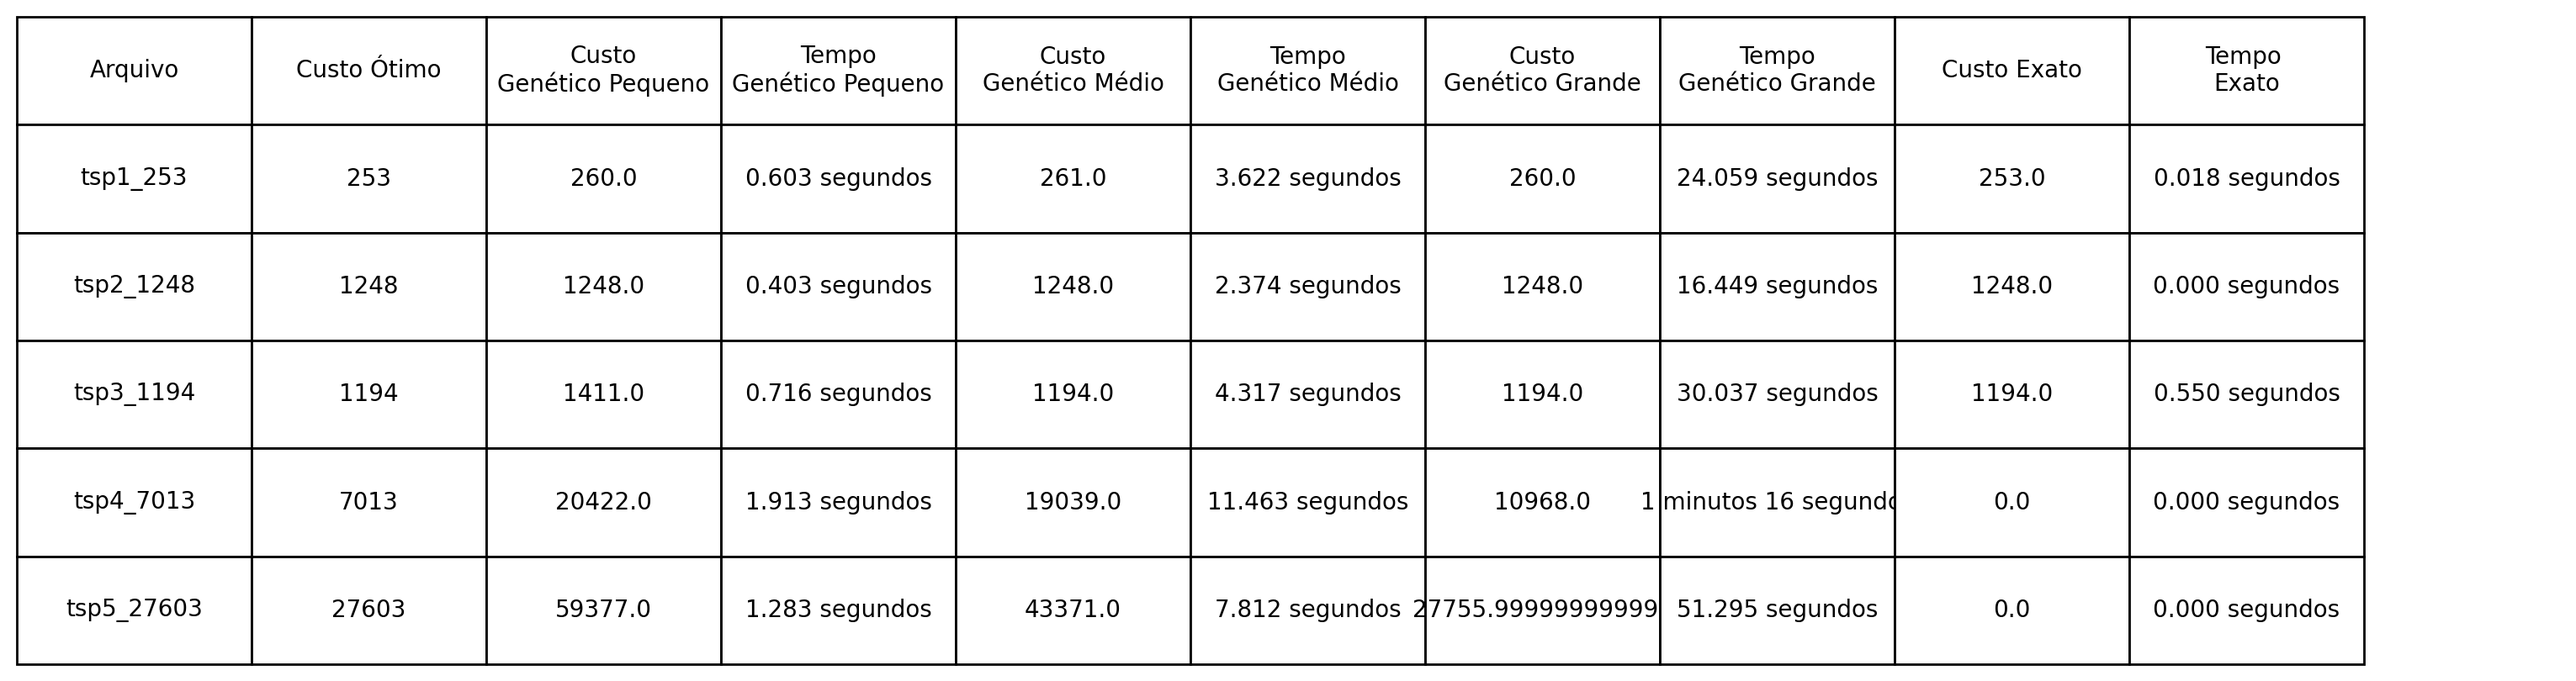
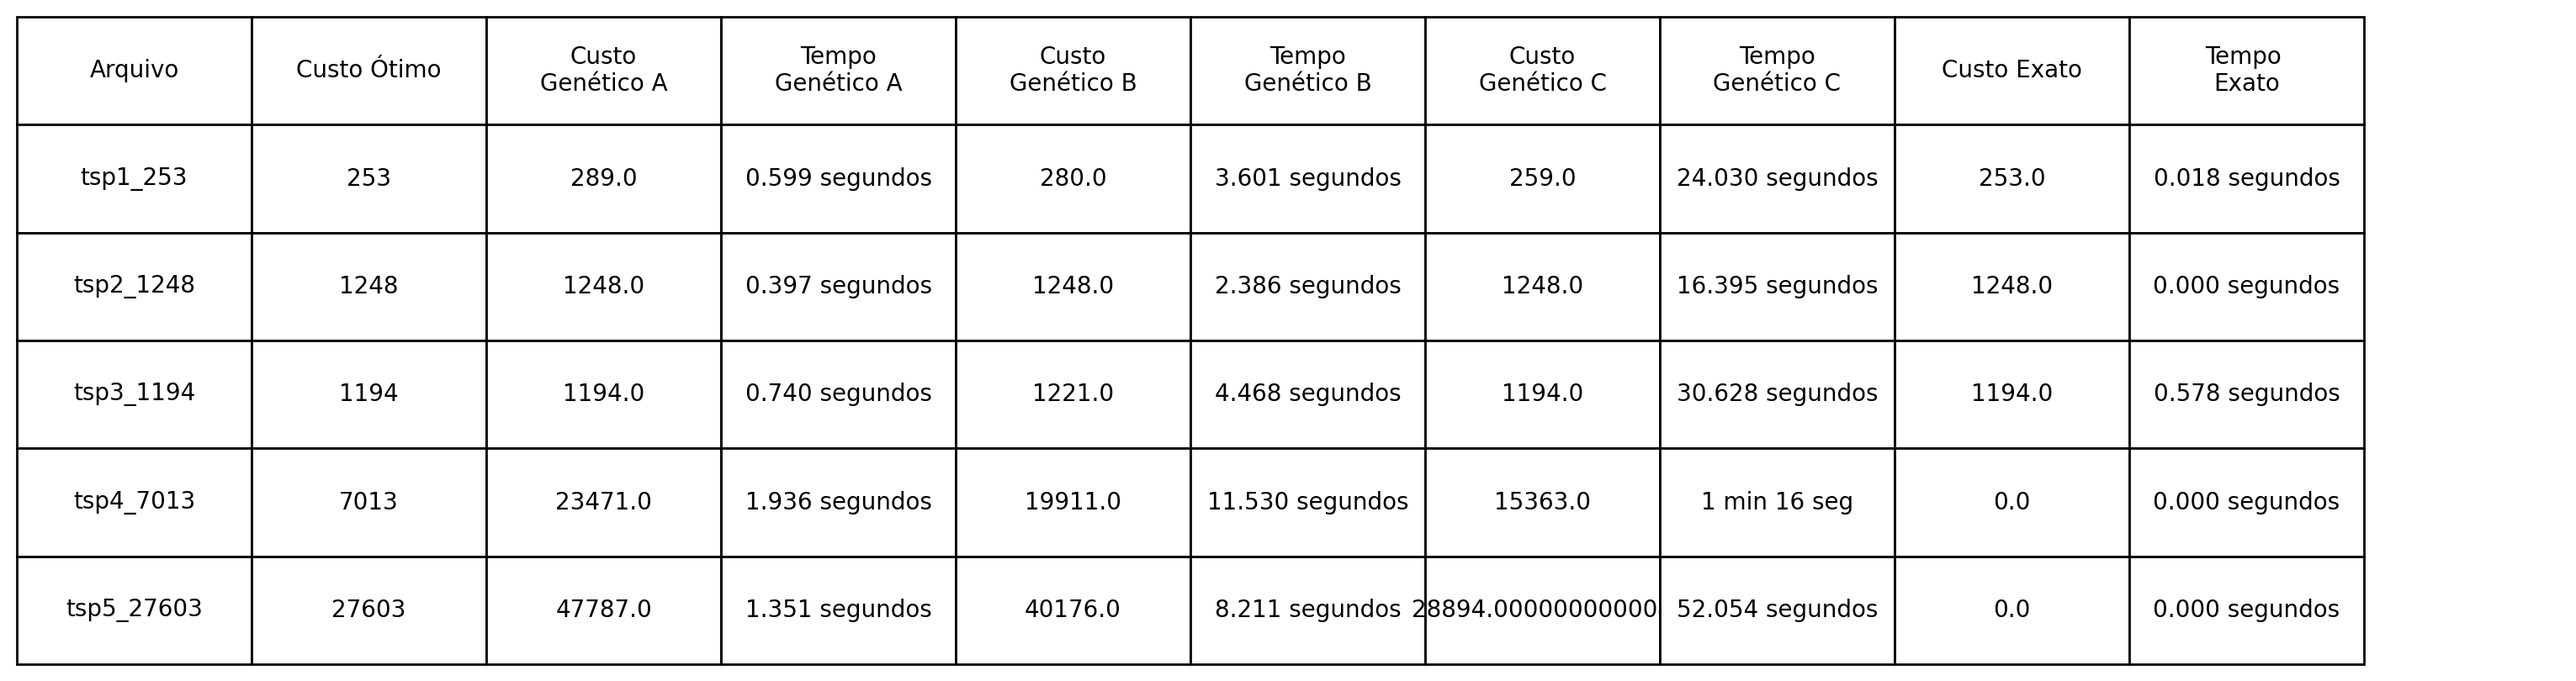
final

diff --git a/Trabalho-1/app.py b/Trabalho-1/app.py
@@ -62,7 +62,7 @@ def formatTime(time):
     else:
         mins = int(time // 60)
         sec = int(time % 60)
-        return f'{mins} minutos {sec} segundos'  
+        return f'{mins} min {sec} seg'  
 
 # instalação de requisitos
 installRequirements()
@@ -84,9 +84,9 @@ for file, runExact in matrixFiles:
 # geração da tabela
 resultsTable = pd.DataFrame(results, columns=['Arquivo', 
                                               'Custo Ótimo', 
-                                              'Custo\nGenético Pequeno', 'Tempo\nGenético Pequeno', 
-                                              'Custo\nGenético Médio', 'Tempo\nGenético Médio', 
-                                              'Custo\nGenético Grande', 'Tempo\nGenético Grande', 
+                                              'Custo\nGenético A', 'Tempo\nGenético A', 
+                                              'Custo\nGenético B', 'Tempo\nGenético B', 
+                                              'Custo\nGenético C', 'Tempo\nGenético C', 
                                               'Custo Exato', 'Tempo \nExato'])
 
 fig, ax = plt.subplots(figsize=(15, 5))
